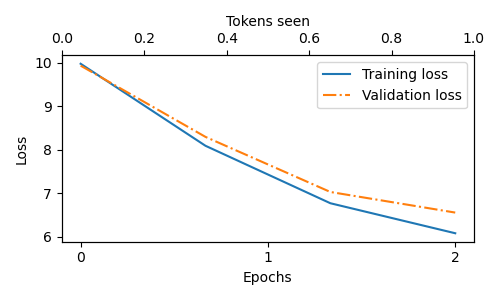
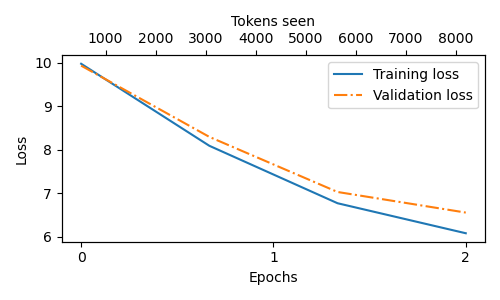
Fixed bug with the plot : toens_seen was not getting populated and was returning a zero tensor
The updated plot shows 2 epochs worth of plots, and shows val_loss not converging at the
same rate as train_loss (expected), and shows tokens_seen correctly now

diff --git a/pretraining/training.py b/pretraining/training.py
@@ -12,10 +12,10 @@ sys.stdout = DualWriter("dump_training.txt")
 def train_model_simple(model, train_loader, val_loader, optimizer, device, num_epochs,
                        eval_freq, eval_iter, start_context, tokenizer):
 
-    train_losses, val_losses, track_tokens_seen = [], [], []
+    train_losses, val_losses, track_tokens_seen = [], [], []  # initialize lists to track losses and tokens seen
     tokens_seen, global_step = 0, -1
 
-    for epoch in range(num_epochs):
+    for epoch in range(num_epochs):                           # main training loop
 
         # see parent-child-basics.py : 
         # train is a method of nn (parent of GPTModel, see GPTModel.py in llm-infra)
@@ -25,28 +25,31 @@ def train_model_simple(model, train_loader, val_loader, optimizer, device, num_e
         for input_batch, target_batch in train_loader:
  
             # reset the loss gradient from the previous batch iteration
-            optimizer.zero_grad() 
+            optimizer.zero_grad()                             # reset loss gradients from previous batch iteration
 
             loss = calc_loss_batch(
                 input_batch, target_batch, model, device
             )
 
             # calculate new gradients using back-prop
-            loss.backward()
+            loss.backward()                                   # calculate loss gradients
 
-            optimizer.step()
+            optimizer.step()                                  # update weight model using loss gradients
+
+            #print("input batch's numel : ", input_batch.numel(), "\n") (this is normally 512)
 
             tokens_seen += input_batch.numel()
             global_step += 1
 
             # optional evaluation step
-            if global_step % eval_freq == 0:
+            if global_step % eval_freq == 0:                  # optional evaluation step
 
                 train_loss, val_loss = evaluate_model(
                     model, train_loader, val_loader, device, eval_iter 
                 )
                 train_losses.append(train_loss)
                 val_losses.append(val_loss)
+                track_tokens_seen.append(tokens_seen)
 
                 print(f"Epoch {epoch+1} (Step {global_step:06d}): "
                       f"Train loss {train_loss:.3f}, "
@@ -59,10 +62,10 @@ def train_model_simple(model, train_loader, val_loader, optimizer, device, num_e
 
                 # input("Press enter to continue..")
 
-            # print a sample text after each iteration to show visual/understandable progress (!) 
-            generate_and_print_sample(model, tokenizer, device, start_context)
+        # print a sample text after each iteration to show visual/understandable progress (!) 
+        generate_and_print_sample(model, tokenizer, device, start_context) # print a sample text after each epoch
 
-            # input("Press enter to continue..")
+        # input("Press enter to continue..")
 
     return train_losses, val_losses, track_tokens_seen
 
@@ -154,6 +157,8 @@ train_losses, val_losses, tokens_seen = train_model_simple(
     start_context="Every effort moves you", tokenizer=tokenizer
 )
 
+print("tokens seen: ", tokens_seen)  # debug why tokens_seen is incorrect
+
 # plot out a graph that shows training and validation losses side by side
 # (to help detect if we are overfitting etc)
 
@@ -162,18 +167,24 @@ from matplotlib.ticker import MaxNLocator
 
 def plot_losses(epochs_seen, tokens_seen, train_losses, val_losses):
 
+    #print("In plot_losses\n")
+    #print("len of epochs seen (X of 1st axis)", epochs_seen.shape)
+    #print("len of tokens seen (X of 2nd axis)", len(tokens_seen))
+    #print("len of train_losses(Y of twiny)", len(train_losses))
+    #print("len of val_losses(Y of twiny)", len(val_losses))
+   
+
     fig, ax1 = plt.subplots(figsize=(5, 3))
     ax1.plot(epochs_seen, train_losses, label="Training loss")
-    ax1.plot(
-        epochs_seen, val_losses, linestyle="-.", label="Validation loss"
-    )
+    ax1.plot(epochs_seen, val_losses, linestyle="-.", label="Validation loss")
     ax1.set_xlabel("Epochs")
     ax1.set_ylabel("Loss")
     ax1.legend(loc="upper right")
     ax1.xaxis.set_major_locator(MaxNLocator(integer=True))
 
-    ax2 = ax1.twiny()
-    #ax2.plot(tokens_seen, train_losses, alpha=0)
+    ax2 = ax1.twiny()    # twiny in pyplot creates a second axis object that shares the y-axis with existing axes object
+                         # so the y-axis have to be the same
+    ax2.plot(tokens_seen, train_losses, alpha=0)
     ax2.set_xlabel("Tokens seen")
     fig.tight_layout()
 
